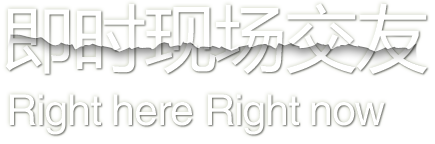
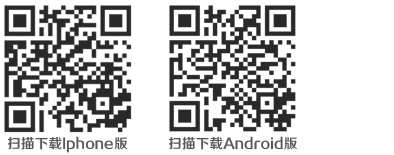
前端修改

diff --git a/public/stylesheets/style.css b/public/stylesheets/style.css
@@ -19,7 +19,7 @@ h1{display: none}
 .mb90{margin-bottom:90px;}
 .m_auto{margin-left:auto !important;margin-right:auto !important;}
 .header{width:960px;height:117px;margin:0px auto;background:url(../images/index/headerbg.jpg) left top no-repeat;}
-.logo{float:left;margin-top:30px;margin-left:40px;}
+.logo{float:left;margin-top:20px;margin-left:40px;}
 #Menu{display:block;font-size:14px;overflow:hidden;zoom:1;margin-top:70px;float:right;}
 #Menu li{float:left;padding:0px 15px;text-align:center;width:76px;}
 #Menu li.home{width:38px;}
@@ -38,11 +38,9 @@ display:block;overflow:hidden;float:left;text-indent:-999em;margin-left:20px;cur
 
 .slide {position:relative;width:960px;height:0px;margin:0px auto;z-index:99;zoom:1;}
 .slide .slideinner{}
-.slide  .slideinner .pic{width: 435px;height: 144px;top: -400px;left: 555px;position: absolute;background:url(../images/pic.png) 0px 0px no-repeat;}
-.slide  .slideinner .apple {width: 260px;height: 80px;top: -150px;left: 520px;position: absolute;background:url(../images/iphone.png) 0px 0px no-repeat;}
-.slide  .slideinner .apple:hover {background:url(../images/iphone.png) 0px -80px no-repeat;}
-.slide  .slideinner .android {width: 260px;height: 80px;top: -150px;left: 780px;position: absolute;background:url(../images/android.png) 0px 0px no-repeat;}
-.slide  .slideinner .android:hover {background:url(../images/android.png) 0px -80px no-repeat;}
+.slide  .slideinner .pic{width: 435px;height: 155px;top: -380px;left: 566px;position: absolute;background:url(../images/pic.png) 50px 0px no-repeat;}
+.slide  .slideinner .dl {width: 243px;height: 58px;top: -130px;left: 510px;position: absolute;background:url(../images/btn4.png) 0px 0px no-repeat;}
+.slide  .slideinner .dl2 {width: 257px;height: 58px;top: -130px;left: 780px;position: absolute;background:url(../images/btn4.png) right 0px no-repeat;}
 .slide .slideinner h2 {top: -522px;width: 458px;height: 522px;position: absolute; background:url(../images/index/hand.png) left top no-repeat;}
 .slide  .slideinner h3{width: 300px;height: 60px;top: -80px;left: 580px;position: absolute;background:url(../images/index/btn2.png) center top no-repeat;}
 

diff --git a/public/index.html b/public/index.html
@@ -50,8 +50,8 @@
 	</div>
 	<div class="dh" id="DH">
 		<div id="DHImg" class="dhimg">
-			<a href="#" style="background:url(images/ad1.jpg) center top no-repeat;"></a>
 			<a href="#" style="background:url(images/ad2.jpg) center top no-repeat;"></a>
+			<a href="#" style="background:url(images/ad1.jpg) center top no-repeat;"></a>
 		</div>
 		<div id="DHNum" class="dhnum"> 
 			<a id="Prev" class="prevbtn" href="javascript:void(0)">左</a>
@@ -66,9 +66,8 @@
 		<div class="slideinner">
 			<h2></h2>
 			<div class="pic"></div>
-			<a alt="免费下载iphone版本" class="apple pointer"  title="免费下载iphone版本" href="https://itunes.apple.com/cn/app/lianlian/id577710538"></a>
-			<a alt="免费下载android版本" class="android pointer"  title="免费下载android版本" href="http://www.dface.cn/a/down"></a>
-			<!-- <h3></h3> -->
+			<a alt="免费下载iphone版本" class="dl pointer"  title="免费下载iphone版本" href="https://itunes.apple.com/cn/app/lianlian/id577710538"></a>
+			<a alt="免费下载android版本" class="dl2 pointer"  title="免费下载android版本" href="http://dface.cn/a/down"></a>
 		</div>
       </div>
 	</div>
